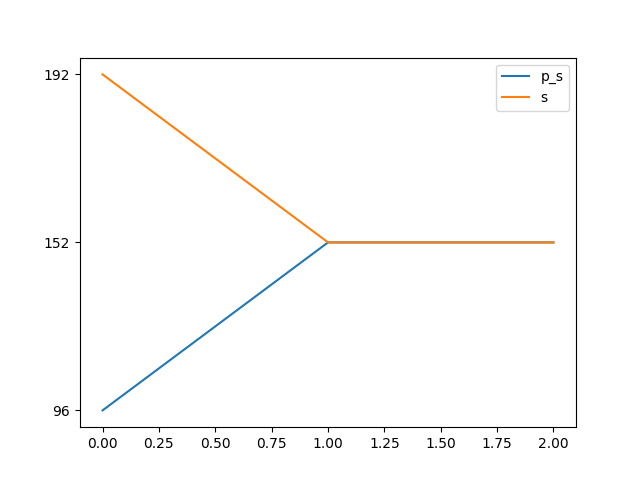
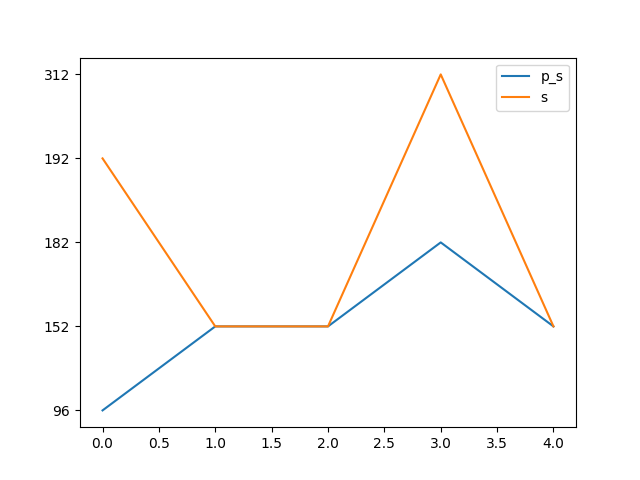
0x0004

diff --git a/benchmark.md b/benchmark.md
@@ -8,7 +8,9 @@ Synthesising 0x0002 pexact:152 r=3 exact:152 r=3
 
 Synthesising 0x0003 pexact:182 r=4 exact:312 r=4
 
-<img src=benchmark_r1.png width=400 heigth=400>
+Synthesising 0x0004 pexact:152 r=3 exact:152 r=3
 
-<img src=benchmark_s1.png width=400 heigth=400>
+<img src=benchmark_r0.png width=400 heigth=400>
+
+<img src=benchmark_s0.png width=400 heigth=400>
 
